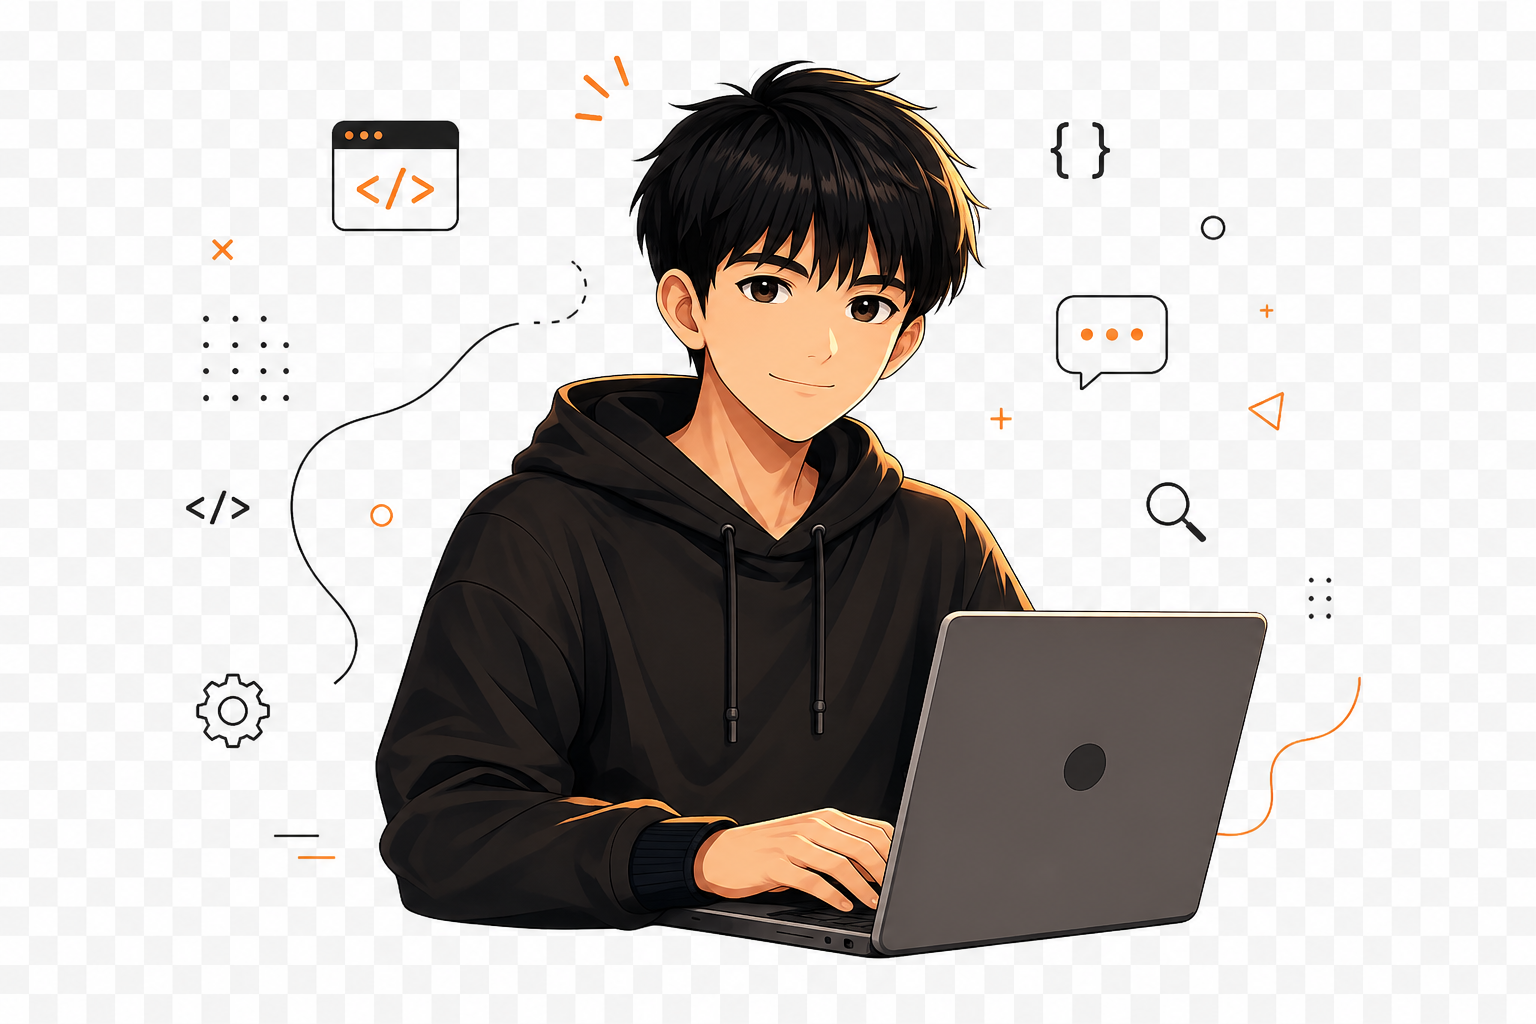
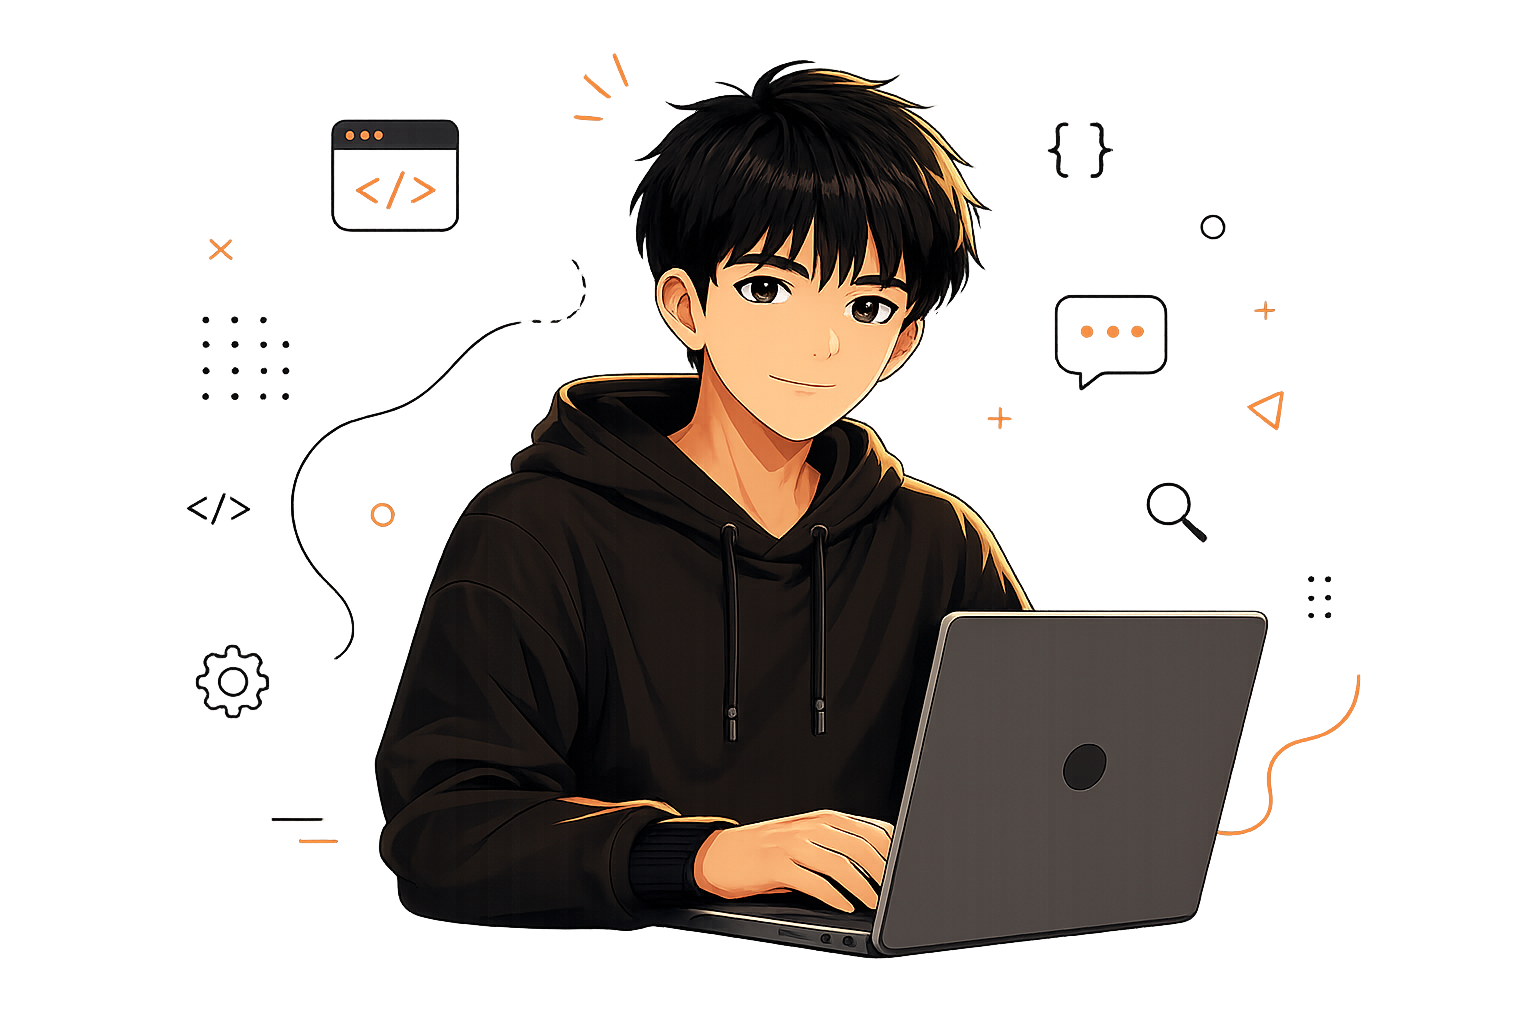
Update the hero section

diff --git a/index.html b/index.html
@@ -45,10 +45,16 @@
             <div class="hero-container">
                 <div class="hero-content">
                     <div class="hero-text">
-                        <h1>Hello, I'm <span>John Rafael Ortega</span></h1>
-                        <p>
-                            BSIT student who is passionate about becoming a frontend developer, contantly learning and exploring how to build beautiful and functional websites.
-                        </p>
+                        <hgroup class="heading-group">
+                            <h1>
+                                <span class="h1-greet">Hello, I'm </span>
+                                <span class="h1-name">John Rafael <span>Ortega</span></span>
+                            </h1>
+                            <p>
+                                Aspiring Frontend Developer
+                            </p>
+                        </hgroup>
+                        <p>I'm currently learning and building projects to improve my skills in creating responsive, userfriendly websites.</p>
                         <div class="hero-btns">
                             <a href="" class="btn btn-about">
                                 View About
@@ -59,9 +65,26 @@
                                 <i class="fas fa-arrow-right"></i>
                             </a>
                         </div>
+                        <div class="socmed">
+                            <span>Find me on</span>
+                            <ul class="socmed-links">
+                                <li class="socmed-link">
+                                    <a href=""><i class="fa-brands fa-github"></i></a>
+                                </li>
+                                <li class="socmed-link">
+                                    <a href=""><i class="fa-brands fa-facebook-f"></i></a>
+                                </li>
+                                <li class="socmed-link">
+                                    <a href=""><i class="fa-brands fa-instagram"></i></a>
+                                </li>
+                                <li class="socmed-link">
+                                    <a href=""><i class="fa-brands fa-google"></i></a>
+                                </li>
+                            </ul>
+                        </div>
                     </div>
                     <div class="hero-img">
-                        <img src="images/profile.jpg" alt="Profile img">
+                        <img src="images/user.png" alt="Profile img">
                     </div>
                 </div>
             </div>

diff --git a/css/style.css b/css/style.css
@@ -83,7 +83,7 @@ header {
 /* HERO SECTION */
 .hero-container {
     width: 100%;
-    padding: 60px 0;
+    padding: 20px 0;
 }
 
 .hero-content {
@@ -91,36 +91,51 @@ header {
     display: flex;
     align-items: center;
     justify-content: space-between;
-    flex-direction: column-reverse;
+    flex-direction: column;
     margin: 0 auto;
     padding: 40px 20px;
-    gap: 40px;
+    gap: 10px;
 }
 
 .hero-text {
     width: 100%;
     display: flex;
-    align-items: center;
-    text-align: center;
+    align-items: flex-start;
+    justify-content: flex-start;
     flex-direction: column;
     gap: 1rem;
     padding: 20px;
 }
 
 .hero-text h1 {
-    font-size: clamp(24px, 6vw, 40px);
-    font-weight: 700;
-    line-height: 1.2;
+    display: flex;
+    flex-direction: column;
 }
 
-.hero-text span {
-    color: #4f46e5;;
+.hero-text .h1-greet {
+    font-size: 20px;
+    color: #4f46e5;
+}
+
+.hero-text .h1-name {
+    font-size: clamp(25px, 5vw, 40px);
+    margin: 5px 0;
+}
+
+.h1-name span {
+    color: #4f46e5;
+}
+
+hgroup p {
+    max-width: 100%;
+    font-size: 1rem;
+    font-weight: bold;
+    color: #4f46e5;
 }
 
 .hero-text p {
-    max-width: 100%;
-    font-size: 0.8rem;
-    color: #555;
+    width: 90%;
+    font-size: 0.7rem;
 }
 
 .hero-img {
@@ -131,17 +146,15 @@ header {
 
 .hero-img img{
     width: 100%;
-    max-width: 230px;
+    max-width: 300px;
     height: auto;
-    border-radius: 50%;
-    border: 1px solid rgba(0, 0, 0, 0.8);
 }
 
 .hero-btns {
     display: flex;
-    justify-content: center;
+    justify-content: flex-start;
     flex-wrap: wrap;
-    gap: 1rem;
+    gap: 0.5rem;
 }
 
 .btn {
@@ -150,7 +163,7 @@ header {
     gap: 8px;
     padding: 10px 15px;
     border: none;
-    border-radius: 8px;
+    border-radius: 5px;
     font-size: 0.8rem;
     font-weight: 600;
     transition: transform 0.3s;
@@ -176,4 +189,21 @@ header {
 
 .btn:hover svg{
     transform: translateX(5px);
+}
+
+.socmed {
+    width: 100%;
+    display: flex;
+    align-items: center;
+    gap: 10px;
+}
+
+.socmed span {
+    font-size: 0.7rem;
+}
+
+.socmed-links {
+    display: flex;
+    gap: 10px;
+    color: #323232;
 }
